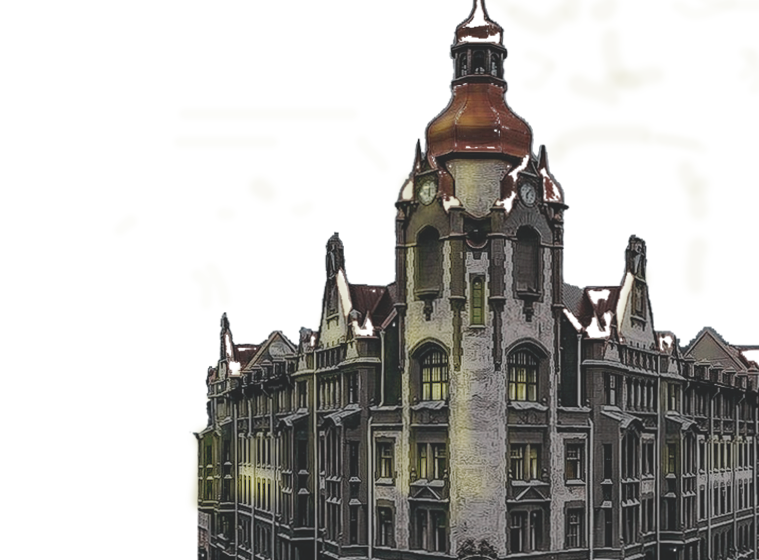
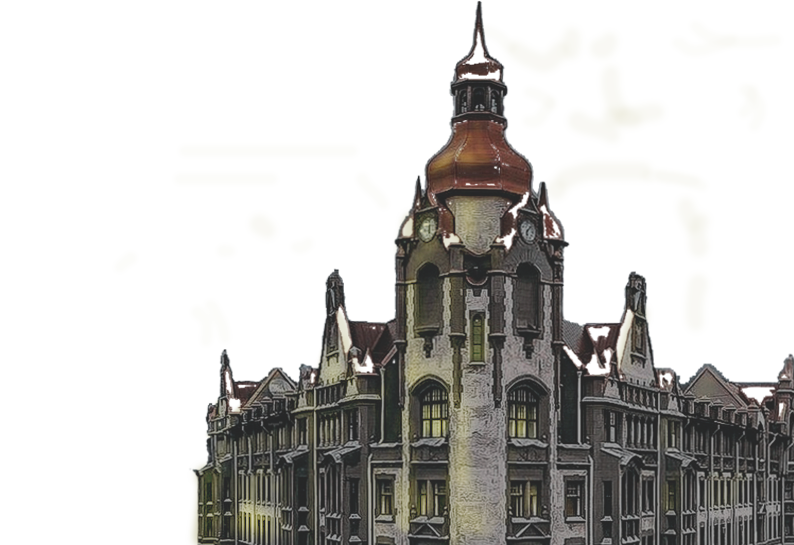
changes2

diff --git a/styleGlavnay/intro.css b/styleGlavnay/intro.css
@@ -6,16 +6,42 @@
     background-clip: content-box;
     background-repeat: no-repeat;
     height: 560px;
+    position: relative;
 }
+.intro__img1 {
+    position: absolute;
+    right: 0;
+    bottom: 0;
+    z-index: 7;
+}
+.intro__img2 {
+    position: absolute;
+    right: 0;
+    bottom: 120px;
+    z-index: 6;
+}
+.intro__img3 {
+    position: absolute;
+    right: 20%;
+    bottom: 9%;
+    z-index: 5;
+}
+.intro__img4 {
+    position: absolute;
+    right: 0;
+    top: 0;
+    z-index: 5;
+}
+
 .intro__inner {
     padding-left: 100px;
+    padding-top: 75px;
 }
 .intro__subtitle {
     text-transform: uppercase;
     color: #d4d3cc;
     font-size: 24px;
     font-family: 'mr_ApexMk3', sans-serif;
-    margin-top: 75px;
     letter-spacing: 3px;
 }
 .intri__title {

diff --git a/glavka.html b/glavka.html
@@ -26,7 +26,12 @@
     </header>
 
     <section class="intro">
-        <img src="" alt="" class="intro__img">
+
+        <img src="./img/1g.png" alt="" class="intro__img1">
+        <img src="./img/2g.png" alt="" class="intro__img2">
+        <img src="./img/3g.png" alt="" class="intro__img3">
+        <img src="./img/4g.png" alt="" class="intro__img4">
+
         <div class="container">
             <div class="intro__inner">
                 <h3 class="intro__subtitle">Мистический Санкт-Петербург</h3>
